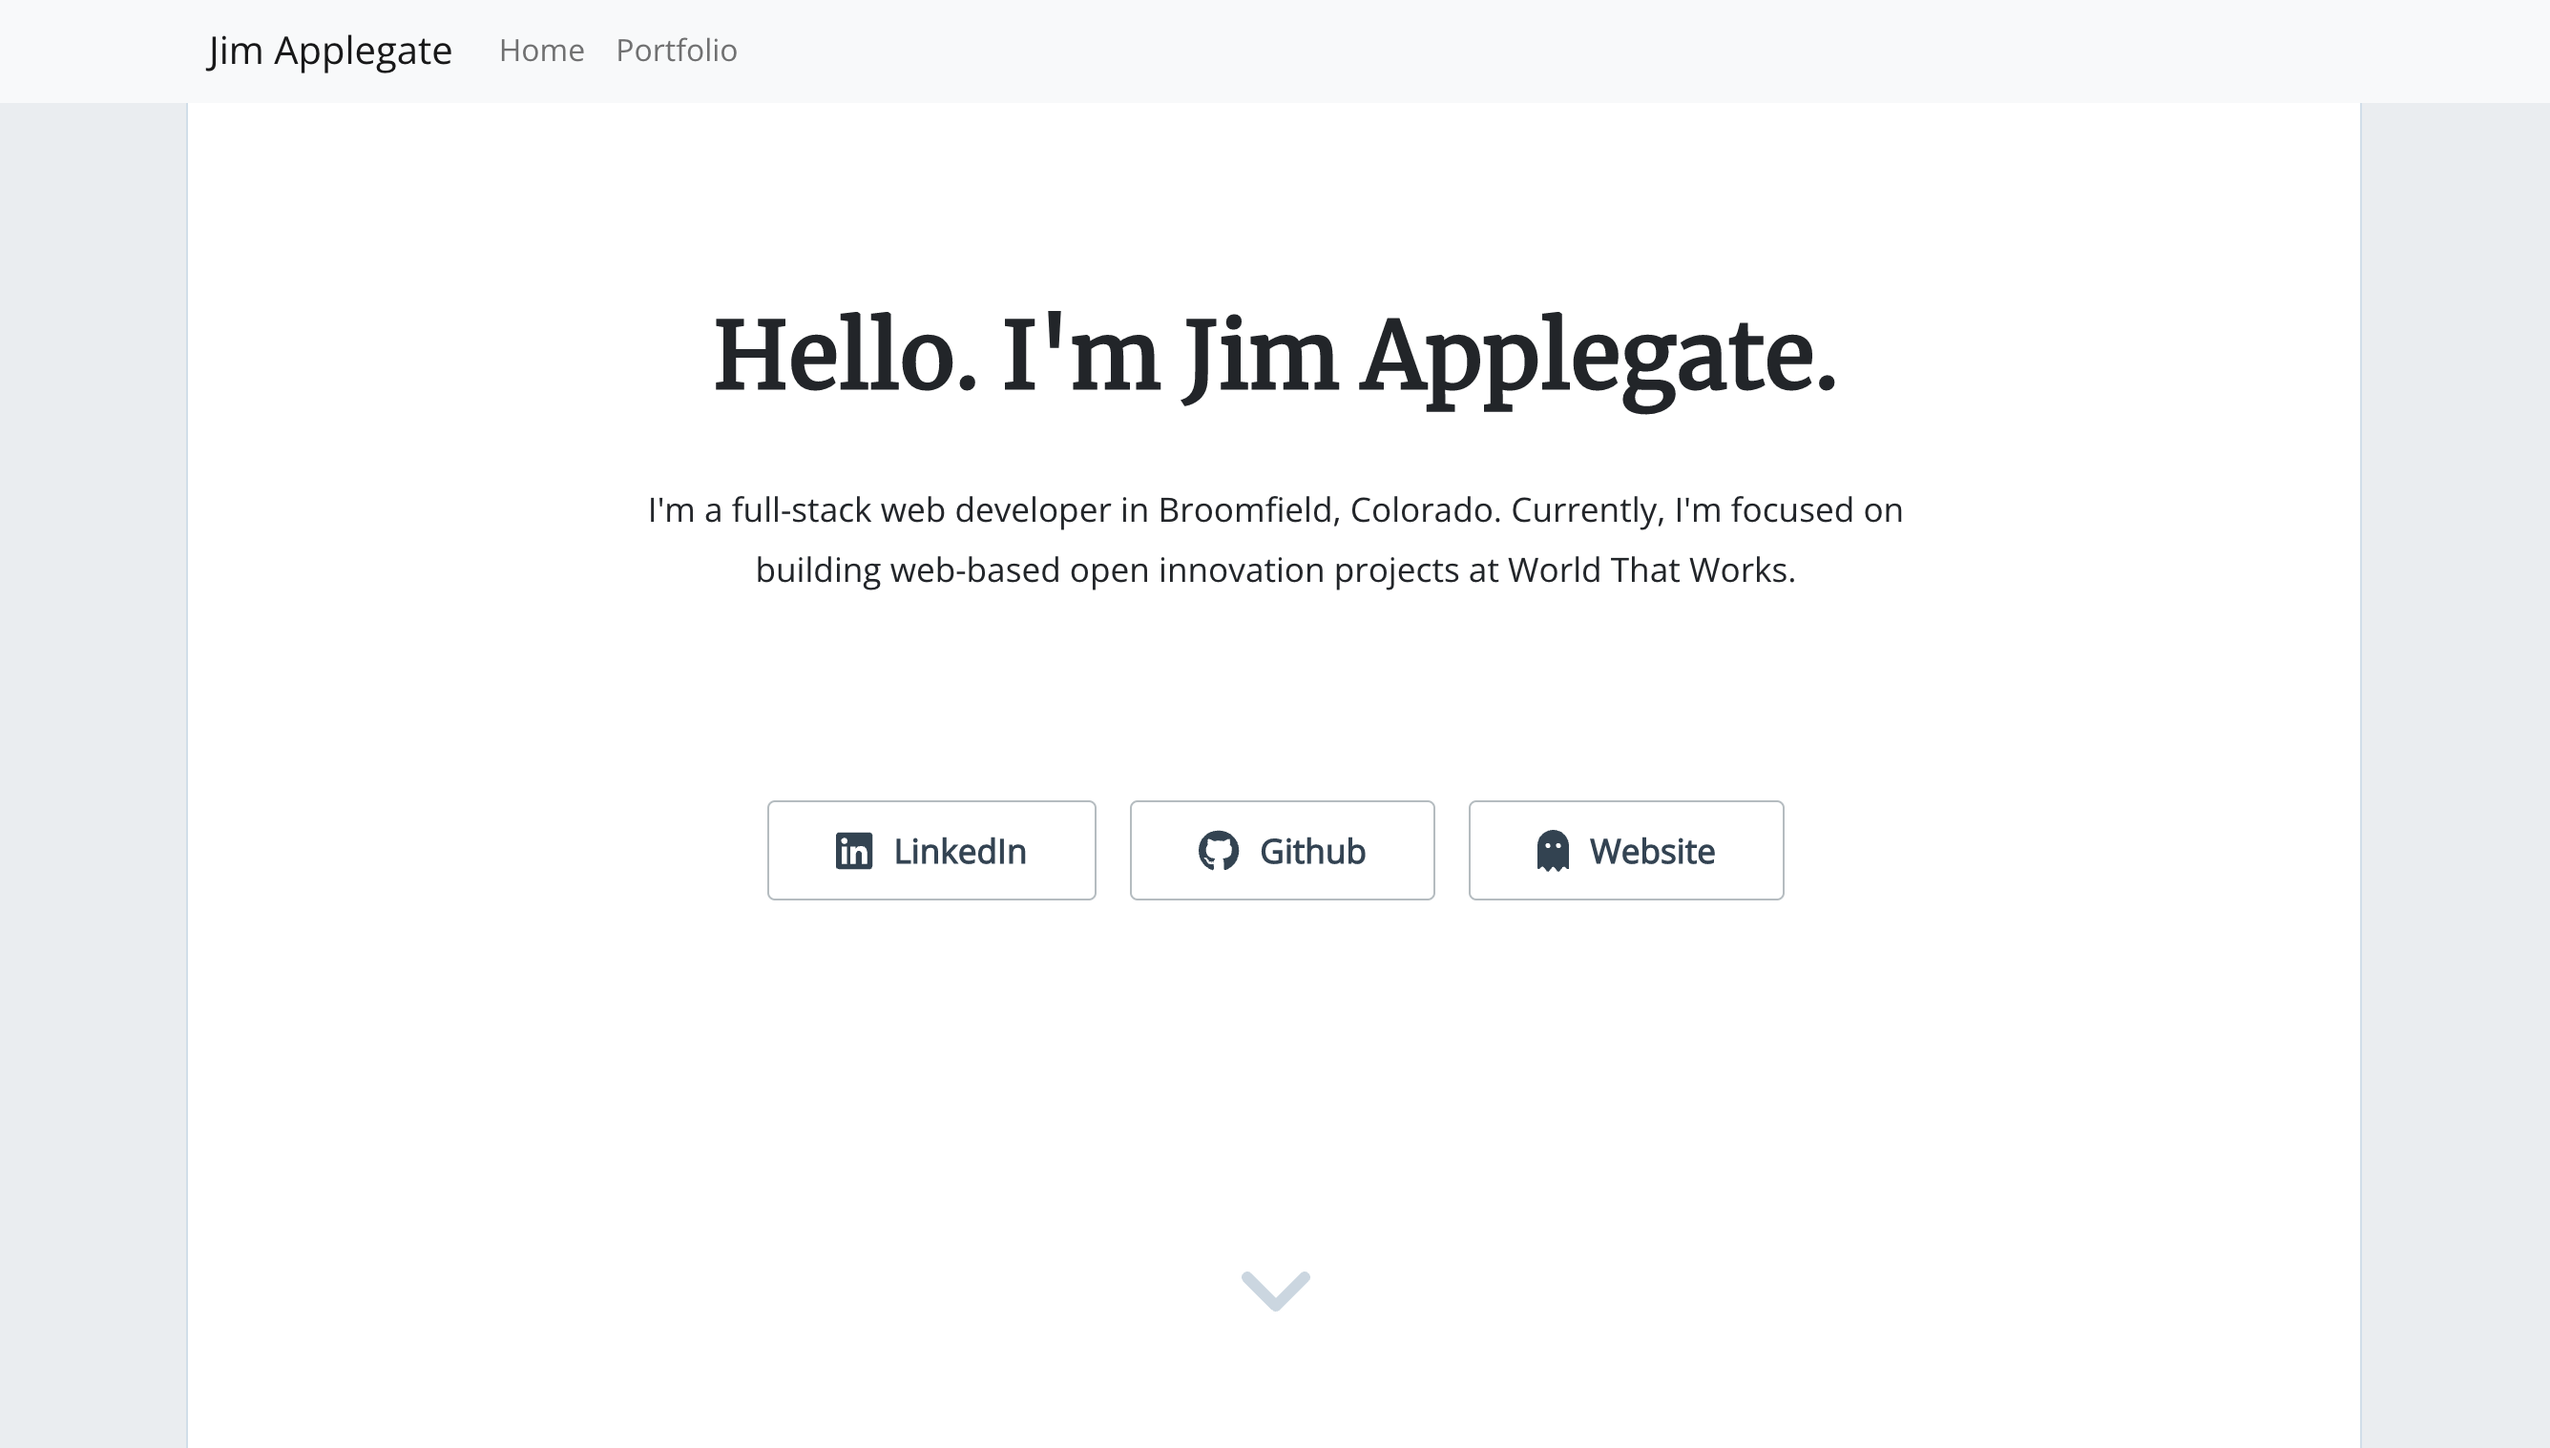
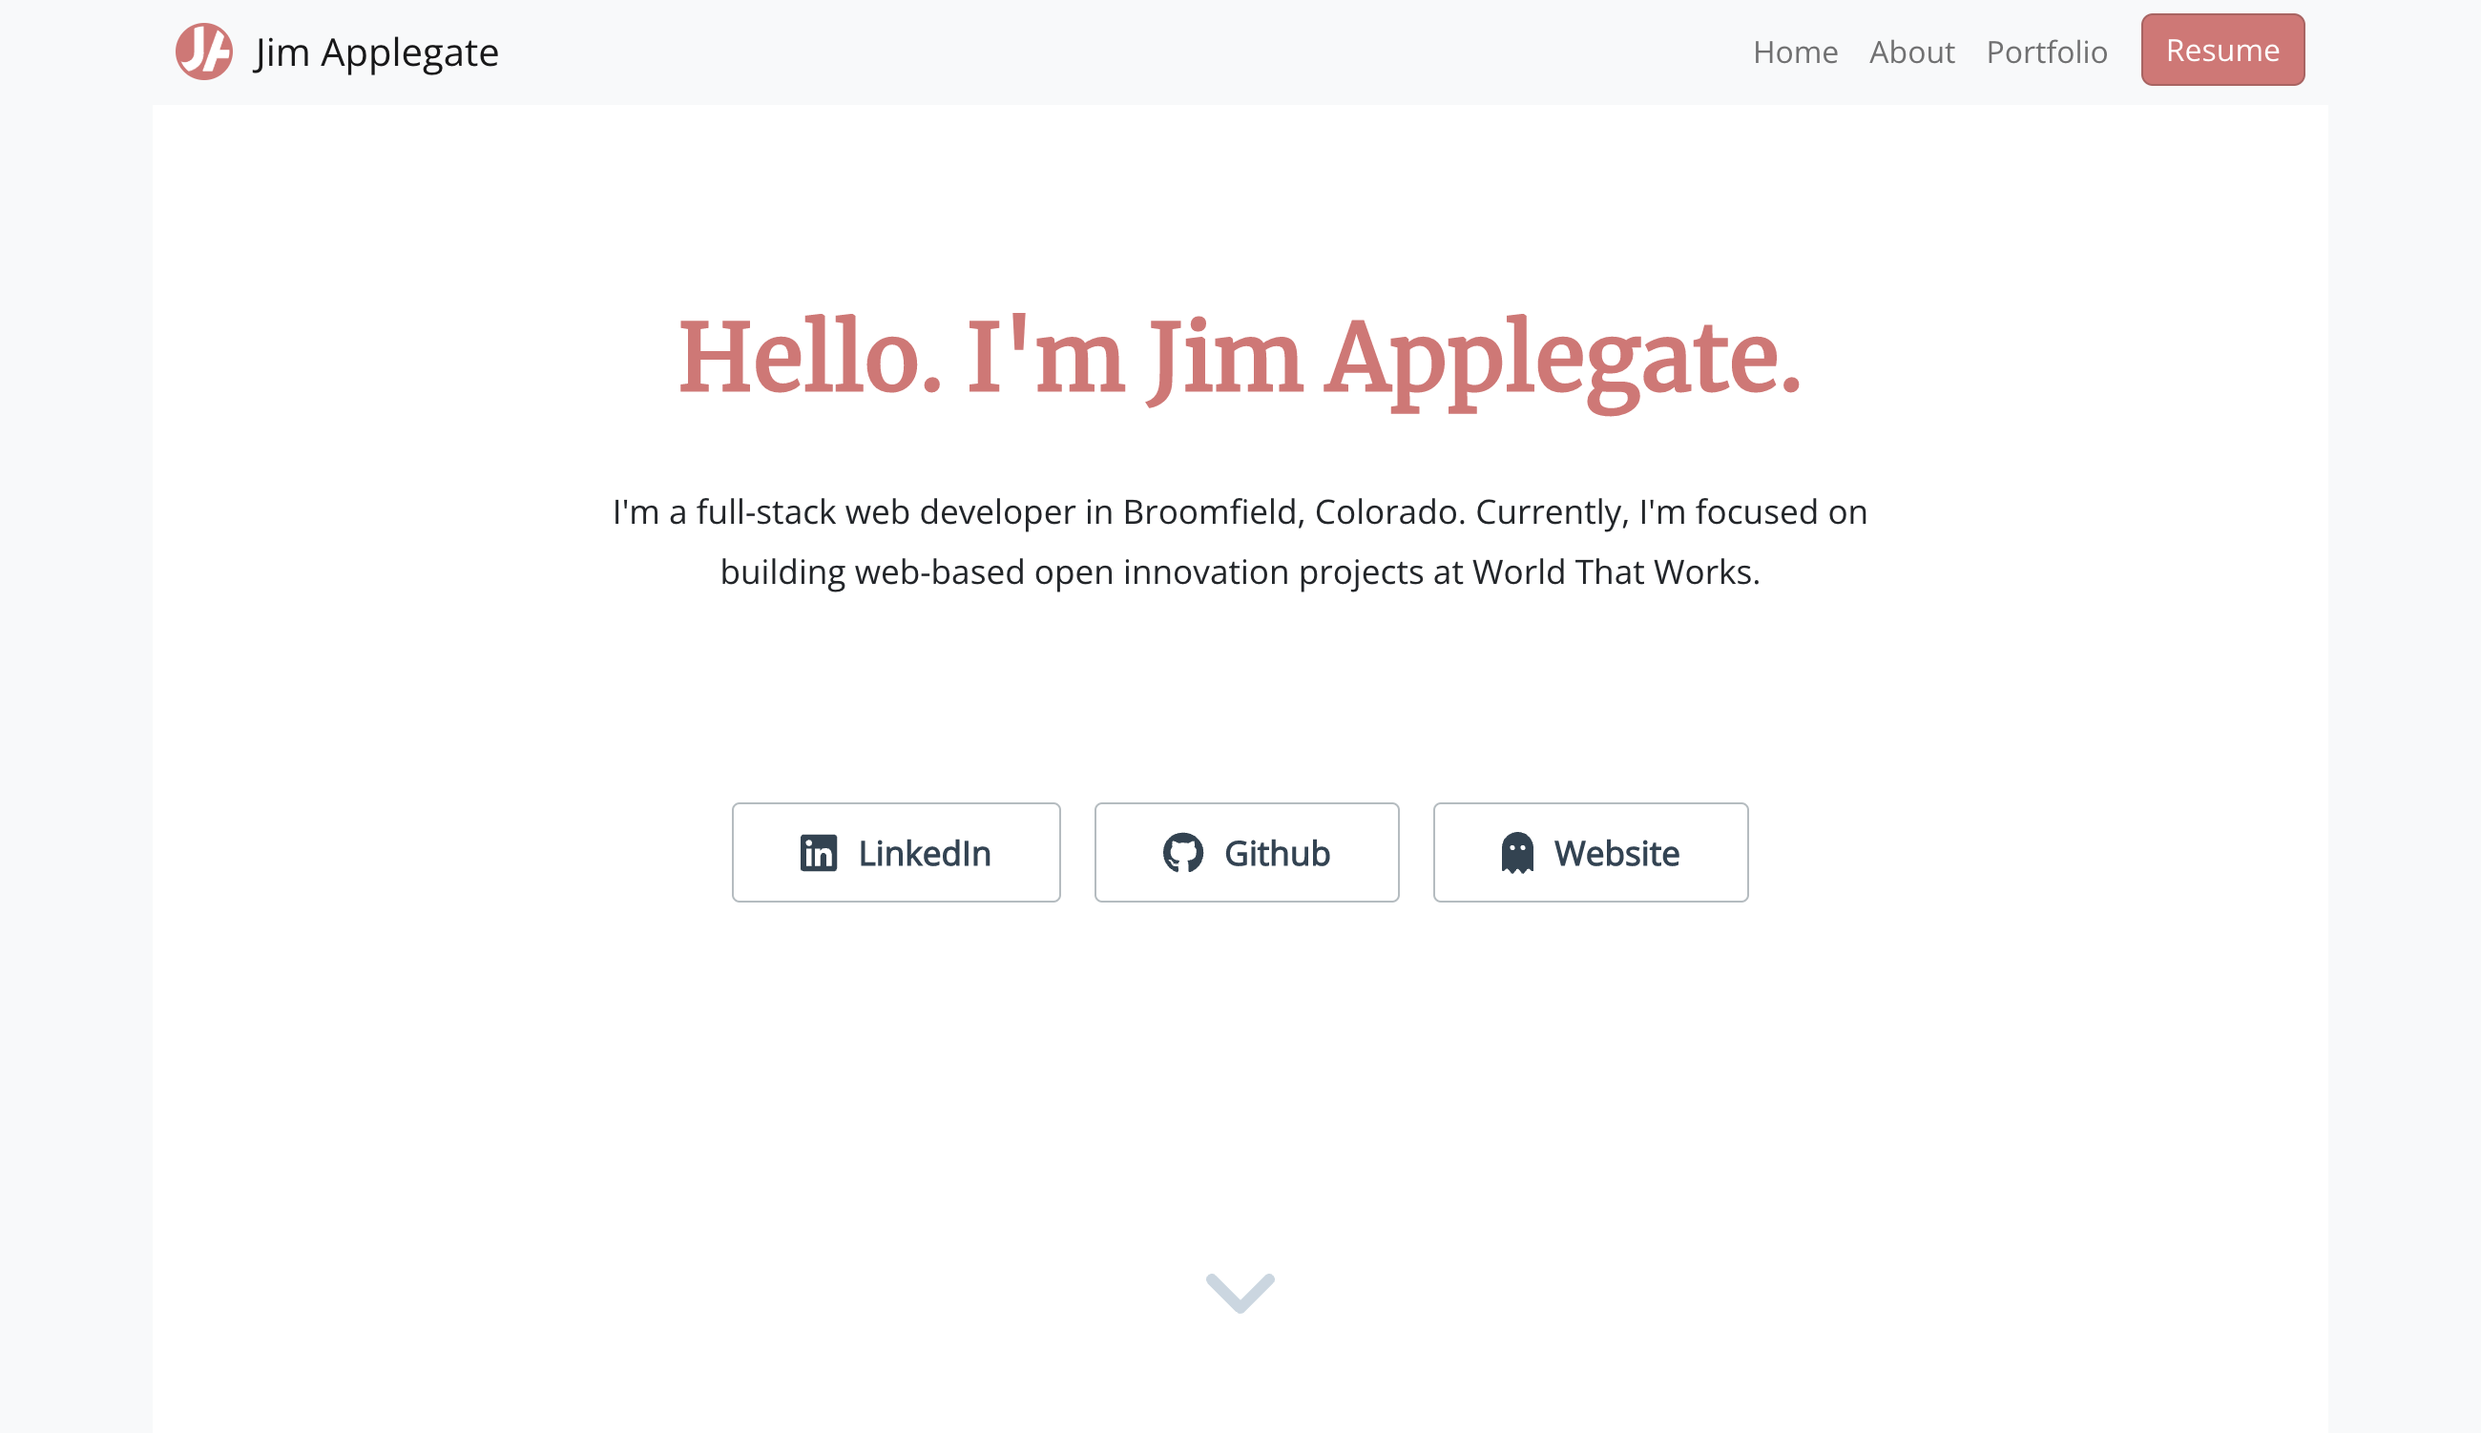
Added an About section.

diff --git a/src/components/about.js b/src/components/about.js
@@ -1,0 +1,48 @@
+import * as React from 'react'
+import { StaticImage } from 'gatsby-plugin-image'
+import Container from 'react-bootstrap/Container';
+import Row from 'react-bootstrap/Row';
+import Col from 'react-bootstrap/Col';
+import { FontAwesomeIcon } from '@fortawesome/react-fontawesome'
+import { faAngleDown } from '@fortawesome/free-solid-svg-icons'
+
+const About = () => {
+  
+  return (
+    <div>
+    <main className='about'>
+      <Container>
+        <Row>
+          <Col md={12}>
+            <div className="anchor" id="about"></div>
+            <h2 className="section-title text-center">A Little About Me</h2>
+            <div className="break"></div>
+          </Col>
+        </Row>
+            
+        <Row>
+          <Col md={1}></Col>
+          <Col xs={12} md={6}>
+            <p>I've been a web developer for 20+ years, and I love the constant challenge of learning new tools, techniques and technologies. I've had the opportunity to grow along with the web, learning a broad range of technologies up and down the stack.</p>
+            <p>As someone who has dealt with my share of big monolithic CMSs and their infrastructure needs, I'm especially excited about the JAMStack as an architecture. I hope and expect that these modern tools and techniques will define my career going forward.</p>
+            <p>Web development is more specialized now, and that's okay. I can do front-end or full-stack development or anything between. It's all about solving problems, and that's what I love to do.</p>
+          </Col>
+          <Col xs={10} md={4}>
+            <StaticImage
+              alt="Jim Applegate in Brooomfield, Coloado"
+              src="../images/gravatar-square.jpg"
+              className="about-photo"
+            />
+          </Col>
+          <Col md={1}></Col>
+        </Row>
+      </Container>
+    </main>
+    
+    				    <a className="section-jump text-center" href="#portfolio"><FontAwesomeIcon icon={faAngleDown} size="3x" aria-label="Down Arrow" /></a>
+</div>
+
+  );
+}
+
+export default About;

diff --git a/src/components/nav.js b/src/components/nav.js
@@ -8,7 +8,7 @@ function MainNav() {
   return (
       <Navbar bg="light" variant="light" fixed="top" expand="sm">
         <Container>
-          <Navbar.Brand href="/">
+          <Navbar.Brand href="/#top">
             <img
               src="/favicon.svg"
               width="30"
@@ -21,14 +21,18 @@ function MainNav() {
           <Navbar.Collapse id="basic-navbar-nav" className="justify-content-end">
             <Nav>
               <Nav.Item>
-                <Nav.Link href="/">Home</Nav.Link>
+                <Nav.Link href="/#top">Home</Nav.Link>
               </Nav.Item>
               <Nav.Item>
-                <Nav.Link href="#portfolio">Portfolio</Nav.Link>
+                <Nav.Link href="/#about">About</Nav.Link>
+              </Nav.Item>
+              <Nav.Item>
+                <Nav.Link href="/#portfolio">Portfolio</Nav.Link>
               </Nav.Item>
               <Nav.Item>
                 <Button 
 									href="/resume/jim-applegate-resume.pdf"
+                  target="_blank"
 									variant="dark"
 									size="md"
                   className="resume-btn"

diff --git a/src/components/portfolio.js b/src/components/portfolio.js
@@ -52,20 +52,20 @@ const PortfolioList = () => {
                 (i % 2 === 0) 
                   ? <Row>
                       <Col md={1}></Col>
-                      <Col xs={10} md={6}>
+                      <Col xs={12} md={6}>
                         <PortfolioImage node={node} />
                       </Col>
-                      <Col xs={10} md={4}>
+                      <Col xs={12} md={4}>
                         <PortfolioContent node={node} />
                       </Col>
                       <Col md={1}></Col>
                     </Row>
                   : <Row>
                       <Col md={1}></Col>
-                      <Col xs={10} md={4}>
+                      <Col xs={12} md={4}>
                         <PortfolioContent node={node} />
                       </Col>
-                      <Col xs={10} md={6}>
+                      <Col xs={12} md={6}>
                         <PortfolioImage node={node} />
                       </Col>
                       <Col md={1}></Col>

diff --git a/src/styles/style.scss b/src/styles/style.scss
@@ -44,7 +44,7 @@ h1, h2, h3, h4, h5, h6 {
   font-weight: 700;
 }
 
-h1 {
+h1, h2.section-title {
   color: #dc7373
 }
 
@@ -208,7 +208,30 @@ img {
 
 
 /*--------------------------------------------------------------
-	2.1 Contact
+	2.1 About
+--------------------------------------------------------------*/
+main.about .container {
+  margin: 10em 0 7em 0;
+  @include bp-xsmall {
+    margin-top: 2em 0 2em 0;
+  }
+  .break {
+    margin: 6em 0;
+    @include bp-xsmall {
+      margin: 2em 0;
+    }
+  }
+}
+
+.about-photo {
+  border: 2px solid #999;
+  border-radius: 10px;
+}
+
+
+
+/*--------------------------------------------------------------
+	2.2 Contact
 --------------------------------------------------------------*/
 .modal-header {
   border-bottom: none;

diff --git a/src/pages/index.js b/src/pages/index.js
@@ -1,6 +1,7 @@
 import * as React from 'react'
 import Layout from '../components/layout'
 import Hero from '../components/hero'
+import About from '../components/about'
 import PortfolioList from '../components/portfolio'
 import Seo from '../components/seo'
 import "@fontsource/open-sans"
@@ -10,6 +11,7 @@ const IndexPage = () => {
   return (
     <Layout pageTitle="Home Page">
       <Hero />
+      <About />
       <PortfolioList />
     </Layout>
   )

diff --git a/src/components/hero.js b/src/components/hero.js
@@ -68,7 +68,7 @@ const Hero = () => {
 						</div>
 					</div>
 
-				<a className="section-jump text-center" href="#portfolio"><FontAwesomeIcon icon={faAngleDown} size="3x" aria-label="Down Arrow" /></a>
+				<a className="section-jump text-center" href="#about"><FontAwesomeIcon icon={faAngleDown} size="3x" aria-label="Down Arrow" /></a>
 			</div>
 		);
 }
